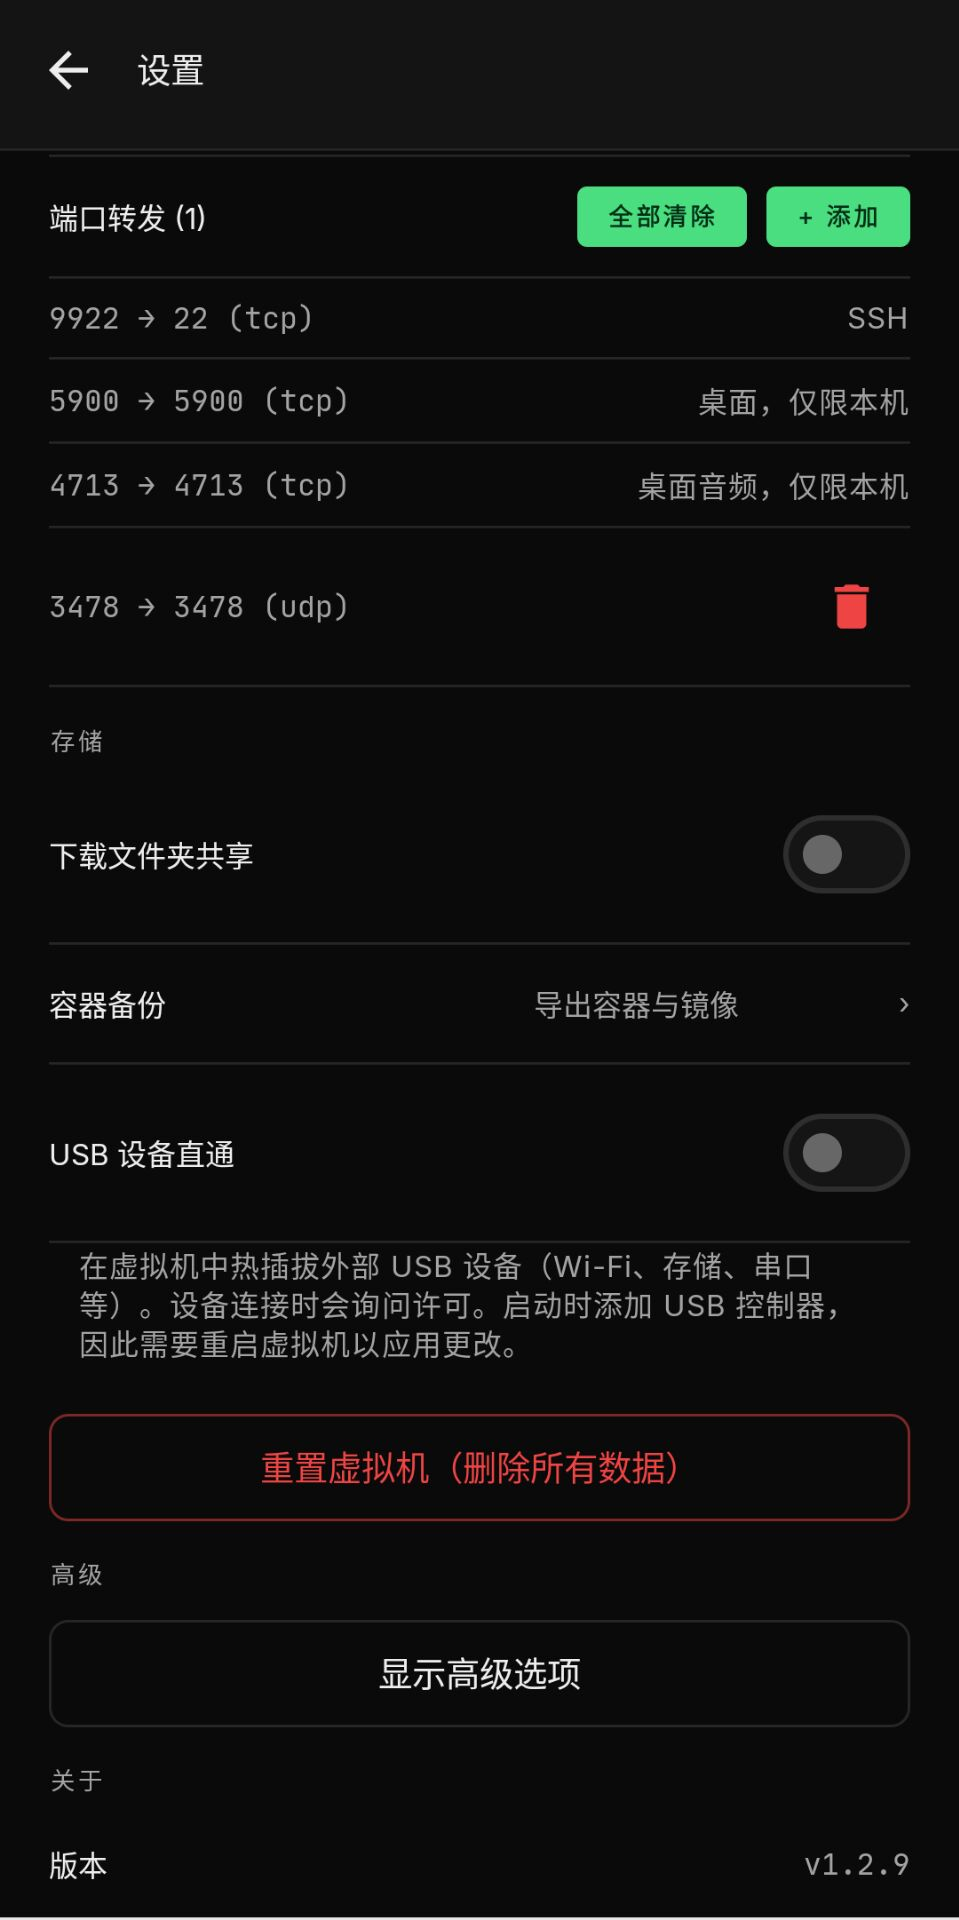
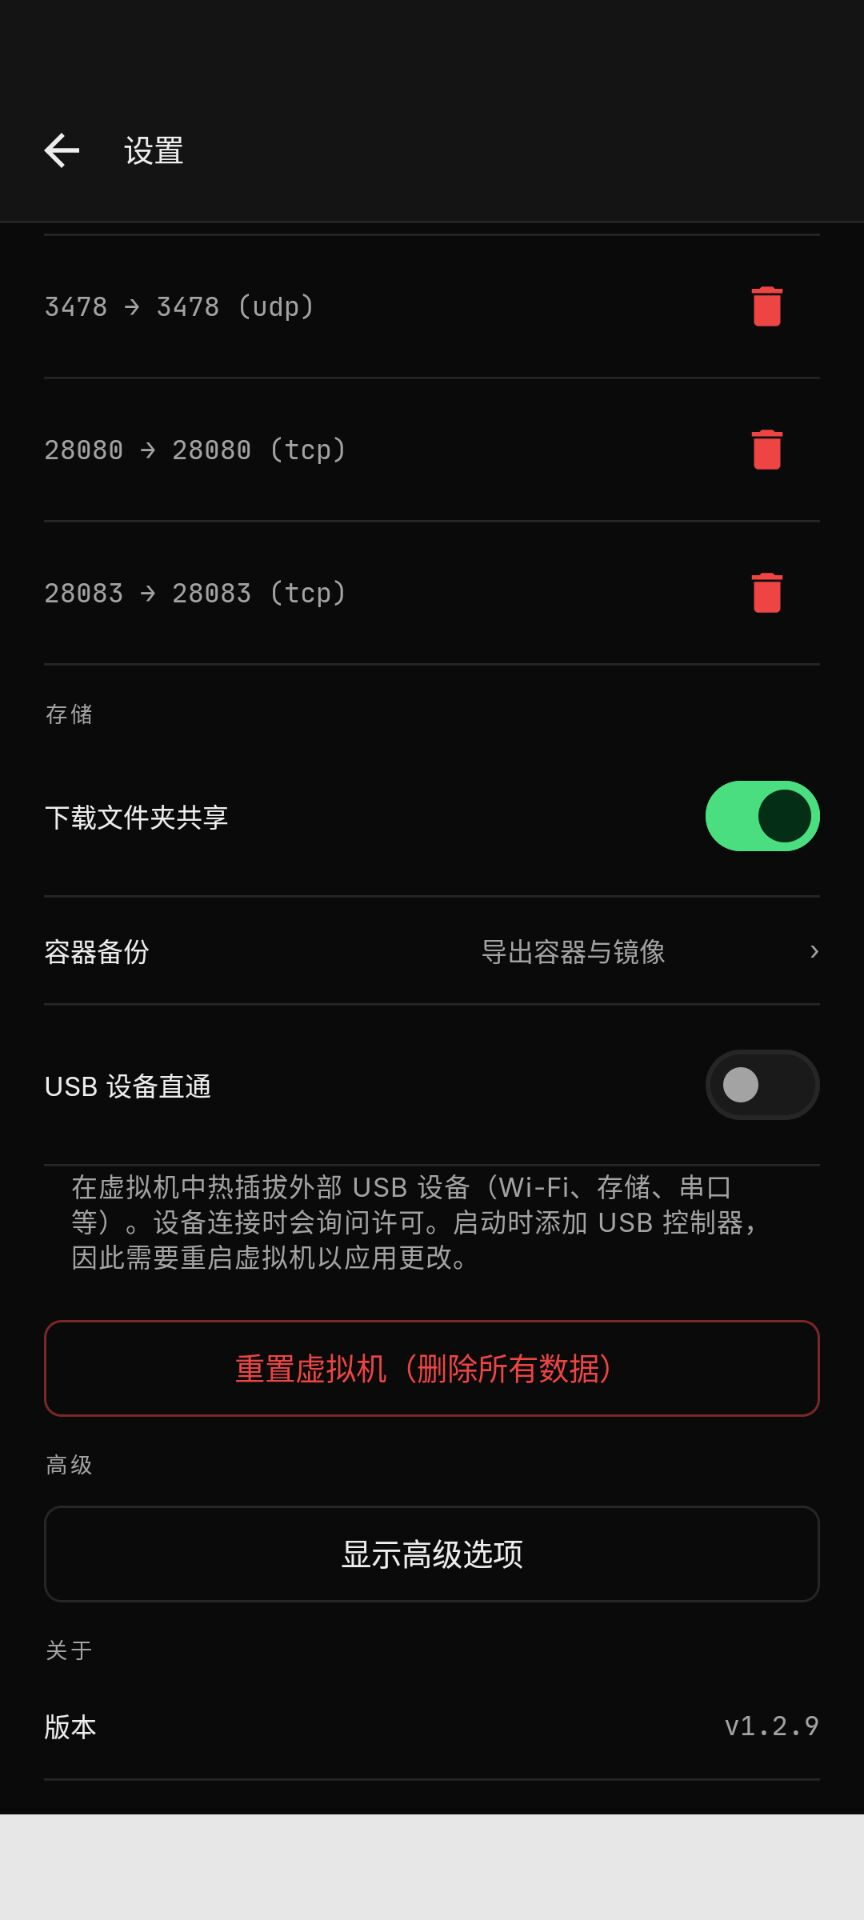
up readme

diff --git a/README.md b/README.md
@@ -12,7 +12,7 @@ data里的json文件为页面基础数据，感谢各路群友整理!! <br/>
 不带图包，图包都比程序大，图包请自行另外下载... <br/>
 
 * 对应游戏1.04，刷卡默认地址：‘http://127.0.0.1:28080’
-* 如果你同时也游玩OB或者有多款ib刷卡，为避免刷卡页面冲突，那么你需要在‘kestrel.json’里改端口..
+* 如果你同时也游玩ob或者有多款ib刷卡，为避免刷卡页面冲突，那么你需要在‘kestrel.json’里改端口..
 
 # 查看最近 [v1.3.8.352](./history/v1.3.8.352/发布说明.v1.3.8.352.md) 更新
 
@@ -78,7 +78,7 @@ data里的json文件为页面基础数据，感谢各路群友整理!! <br/>
 
 * 试验功能：远程卡服
   1.server.json里配置, 默认关闭，用于店外对战匹配到群服真人玩家。(如果群服自有支持,为避免冲突,建议不要开启该功能)
-  2.不支持连入需要token的群服..
+  2.不支持连入需要token的群服...
   
 * 单人2v2随机cpu-另类试验: 本地店内外 (详情请查看1.1.7更新和参考图)
   1.配置过多，需要有一定的计算机知识和动手能力...
@@ -86,7 +86,7 @@ data里的json文件为页面基础数据，感谢各路群友整理!! <br/>
   3.此模式在非‘Custom Match’是不能连战的，结算也都会卡一会，结算后会有信息输出到刷卡控制台..
   4.server.json可配置接入‘外部对战匹配规则服务地址’，用于改变现有对战匹配规则..’本地店内外‘其实为该功能的一个特例...
   
-* 试验功能: 自定义匹配Match3 - 双人对战2v2随机cpu (详情请查看1.3.7更新和参考图)
+* 试验功能: 自定义匹配Match3 - (局域网)双人对战2v2随机cpu (详情请查看1.3.7更新和参考图)
   1.配置过多，上手难度或许过高，需要有一定的计算机知识和动手能力...
   2.需要LM开启店外，需要stun激活，需要修改server.json，具体看参考..
   3.’单人2v2随机cpu‘也是包括在此功能里, 默认关闭.
